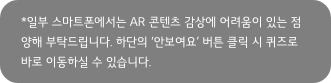
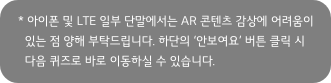
텍스트 수정중

Changed region(s): [[0.0604, 0.1687, 0.9668, 0.3373], [0.0604, 0.4096, 0.9366, 0.5783], [0.0604, 0.6506, 0.6647, 0.8193]]

diff --git a/quiz/my-app/src/components/Q2/Question2_answer.jsx b/quiz/my-app/src/components/Q2/Question2_answer.jsx
@@ -31,7 +31,10 @@ const Question2_answer = (props) => {
                 quizImg={quiz}
                 answer={props.location.state.answerText}
                 nextPageImg={nextPageImg}
-                answerText={'정이품송 맏아들나무는 천연기념물 제 103호인 정이품송의 장자목입니다. 세조가 법주사로 행차할 때 타고 가던 가마가 이 소나무 아래를 지나게 되었는데 처진 가지에 걸리게 되어 세조가 “가마가 가지에 걸린다”라고 말하니, 소나무가 스스로 가지를 위로 들어 올려 왕이 지나가도록 했다고 합니다. 세조는 소나무의 충정을 기리기 위해 정이품(현재 장관급)의 벼슬을 내렸고 이때부터 그 소나무를 ‘정이품송’이라 부르게 되었습니다. '}
+                answerText={'정이품송 맏아들나무는 천연기념물 제 103호인 정이품송의 장자목입니다. ' +
+                '세조가 법주사로 행차할 때 타고 가던 가마가 이 소나무 아래를 지나게 되었는데 처진 가지에 걸리게 되어 세조가 “가마가 가지에 걸린다”라고 말하니, ' +
+                '소나무가 스스로 가지를 위로 들어 올려 왕이 지나가도록 했다고 합니다. 세조는 소나무의 충정을 기리기 위해 정이품(현재 장관급)의 벼슬을 내렸고 ' +
+                '이때부터 그 소나무를 ‘정이품송’이라 부르게 되었습니다. '}
                 url={'/3'}
             />
         </Question2_answerStyled>

diff --git a/quiz/my-app/src/components/Q2/Question2_main.jsx b/quiz/my-app/src/components/Q2/Question2_main.jsx
@@ -18,13 +18,11 @@ const Question1_main = () => {
                 title2={'8도 소나무 단지'}
                 titleImg={titleImg}
                 quizImg={quiz}
-                question={'아래의 물음표에 들어가는 글자를\n' +
-                '유추해보세요. 그리고 \'정이품송 맏아들나무\'\n' +
-                '안내판을 찾은 후, 안내판에 물음표가 들어가 \n' +
-                '단어를 찾아 입력하세요(세글자)'
+                question={'기품있는 8도 소나무 단지를 감상해보세요. 그리고 \'정이품송 맏아들나무\'를 만나게 된다면 안내판을 유심히 읽어보세요. ' +
+                '이번 문제의 정답인 "■◆▲"는 정이품송의 기념비적인 의미를 나타내는 세 자리 글자 또는 숫자를 찾을 수 있습니다.'
                 }
                 map={map}
-                mapText={'야생화공원의 길을 따라 8도 소나무 단지에서 \'정이품송 맏아들나무\'안내판을 찾아보세요!'}
+                mapText={'야생화공원의 길을 따라 8도 소나무 단지에서 \'정이품송 맏아들나무\'안내판을 찾아보세요! \n\'충청북도\'표지석(바닥) 옆에 있습니다'}
                 hintUrl={'/2hint'}
                 url={'/2input'}
             />

diff --git a/quiz/my-app/src/components/Q3/Question3_main.jsx b/quiz/my-app/src/components/Q3/Question3_main.jsx
@@ -18,12 +18,11 @@ const Question3_main = () => {
                 title2={'남산의 야생조류'}
                 titleImg={titleImg}
                 quizImg={quiz}
-                question={'남산에서 롱관찰되는 천연기념물 야생조류는\n' +
-                '황조롱이와 \'____\'입니다. 빈칸에 들어갈 조류의\n' +
-                '이름은 무엇일까요?'}
+                question={'반갑게 지저귀는 새들의 인사를 들으면서 즐겁게 산책중이신가요? 조용히 귀를 기울여보시면, 남산에 사는 다양한 새소리를 들을 수 있습니다.' +
+                '남산에서 관찰되는 천연기념물 야생조류를 황조롱이와 \'____\'입니다. 빈칸에 들어갈 이름은 무엇일까요?'}
                 hint={'[힌트] 위의 안내판을 잘 찾아보세요!'}
                 map={map}
-                mapText={'유아숲체험원과 화장실을 지나 \n\'남산에서 관찰된 야생조류\'안내판을 찾아보세요!'}
+                mapText={'유아숲체험원과 화장실을 지나 \n\'남산에서 관찰된 야생조류\'안내판을 찾아을 수 있습니다.'}
                 ArUrl={true}
                 url={'/3input'}
             />

diff --git a/quiz/my-app/src/components/Q1/Question1_main.jsx b/quiz/my-app/src/components/Q1/Question1_main.jsx
@@ -18,10 +18,9 @@ const Question1_main = () => {
                 title2={'야생화공원'}
                 titleImg={titleImg}
                 quizImg={quiz}
-                question={'야생화공원의 길을 걸으며 주변에\n' +
-                '어떤 야생화가 있는지 둘러보세요.\n' +
-                '그리고 다음 식물의 이름을 찾아보세요'} z
-                hint={'[힌트] 공원의 안의 팻말들을 잘 찾아보세요'}
+                question={'우측 위에 있는 \'위치보기\'를 눌러 지도를 확인하고 야생화공원으로 가세요.' +
+                ' 야생화공원에 잇는 식물들은 아름답지만 이름은 낯설 것입니다. 그 중 아래 팻말을 찾고, 아래 식물의 이름을 찾아주세요.'}
+                hint={'\<과명 | 두릅나무과 송악송> '}
                 map={map}
                 mapText={'육교를 건너 남산공원으로 진입 후, 체육시설과 지압보도를 지나 야생화공원으로 들어가세요!'}
                 url={'/1input'}

diff --git a/quiz/my-app/src/components/Q2/Question2_Input.jsx b/quiz/my-app/src/components/Q2/Question2_Input.jsx
@@ -26,11 +26,9 @@ const Question2_Input = (props) => {
                 history={props.history}
                 urlNum= {'2'}
                 answerText={'103'}
-                questionText={'아래의 물음표에 들어가는 글자를\n' +
-                '유추해보세요. 그리고 \'' +
-                '정이품송 맏아들나무\' \n' +
-                '안내판을 찾은 후, 안내판에 물음표가 들어가는\n' +
-                '단어를 찾아 입력하세요.(세글자) '}
+                questionText={'기품있는 8도 소나무 단지를 감상해보세요. 그리고 \'정이품송 맏아들나무\'를 만나게 된다면 안내판을 유심히 읽어보세요. ' +
+                '이번 문제의 정답인 "■◆▲"는 정이품송의 기념비적인 의미를 나타내는 세 자리 글자 또는 숫자를 찾을 수 있습니다.'
+                }
             />
 
         </Question2_InputStyled>

diff --git a/quiz/my-app/src/components/Q1/Question1_Input.jsx b/quiz/my-app/src/components/Q1/Question1_Input.jsx
@@ -19,18 +19,19 @@ width: 100%;
 const Question1_Input = (props) => {
 
     return (
-        <>
+        <Question1_InputStyled>
             <Question_Input
                 history={props.history}
                 urlNum={'1'}
                 answerText={'송악'}
-                questionText={'야생화 공원에서 다음 식물의 이름을 찾아보세요.'}
+                questionText={'우측 위에 있는 \'위치보기\'를 눌러 지도를 확인하고 야생화공원으로 가세요.' +
+                ' 야생화공원에 잇는 식물들은 아름답지만 이름은 낯설 것입니다. 그 중 아래 팻말을 찾고, 아래 식물의 이름을 찾아주세요.'}
                 titleImg={titleImg}
                 title={props.location.state.title}
                 title2={props.location.state.title2}
             />
 
-        </>
+        </Question1_InputStyled>
     )
 
 

diff --git a/quiz/my-app/src/components/Q3_2/Question3_2_Input.jsx b/quiz/my-app/src/components/Q3_2/Question3_2_Input.jsx
@@ -24,7 +24,8 @@ const Question3_2_Input = (props) => {
                 title2={props.location.state.title2}
                 titleImg={titleImg}
                 // quizImg={quiz}
-                questionText={'AR을 활용하여 다른 멸종위기 동물들은\n' +
+                questionText={'지금은 천연기념물 2종만 남아있지만, 예전에는 남산에 더욱 다양한 새소리를 들을 수 있었다고 합니다. 자연을 아끼고 보호한다면, 우리의 후손들은 더욱 아름다운 남산을 볼 수 ' +
+                'AR을 활용하여 다른 멸종위기 동물들은\n' +
                 '무엇이 있는지 확인해보세요.\n' +
                 '그리고 이 중 멸종위기인 조류를 확인하고\n' +
                 '이 조류는 어디에 서식하는지 맞춰보세요!'}

diff --git a/quiz/my-app/src/components/Q3/Question3_Input.jsx b/quiz/my-app/src/components/Q3/Question3_Input.jsx
@@ -26,9 +26,8 @@ const Question3_Input = (props) => {
                 history={props.history}
                 urlNum={'3'}
                 answerText={'새홀리기'}
-                questionText={'남산에서 관찰되는 천연기념물 야생조류는\n' +
-                '황조롱이와 \'____\'입니다. 빈칸에 들어갈 조류의\n' +
-                '이름은 무엇일까요?'}
+                questionText={'반갑게 지저귀는 새들의 인사를 들으면서 즐겁게 산책중이신가요? 조용히 귀를 기울여보시면, 남산에 사는 다양한 새소리를 들을 수 있습니다.' +
+                '남산에서 관찰되는 천연기념물 야생조류를 황조롱이와 \'____\'입니다. 빈칸에 들어갈 이름은 무엇일까요?'}
             />
 
         </Question3_InputStyled>

diff --git a/quiz/my-app/src/components/Q5/Question5_main.jsx b/quiz/my-app/src/components/Q5/Question5_main.jsx
@@ -20,7 +20,7 @@ const Question5_main = () => {
                 titleImg={titleImg}
                 quizImg={quiz}
                 quizImg2={quiz2}
-                question={'아래의 그림에서 a, b를 유추하고, 남산공원에서 \'단푼이 드는 이유\'라는 안내판을 찾아보세요.\n이 안내판의 a번째 줄, b번째 단어는 무엇일까요?'}
+                question={'아래의 그림에서 a, b를 유추하고, 남산공원에서 \'단풍이 드는 이유\'라는 안내판을 찾아보세요.\n이 안내판의 a번째 줄, b번째 단어는 무엇일까요?'}
                 map={map}
                 mapText={'연못 옆 계단을 내려와 경사길을 따라오세요.\n \'단풍이 드는 이유\'안내판을 찾아보세요!'}
                 hintUrl={'/5hint'}

diff --git a/quiz/my-app/src/components/Q2/Question2_hint.jsx b/quiz/my-app/src/components/Q2/Question2_hint.jsx
@@ -3,7 +3,7 @@ import styled from 'styled-components'
 
 import Question_hint from "../defaultTemplate/Question_hint";
 import titleImg from "../../images/Q2/Title@2x.png";
-import hintImg from '../../images/Q2/Quiz@2x.png'
+import hintImg from '../../images/Q2/hint.png'
 
 
 const Question2_hint = (props) => {
@@ -15,7 +15,7 @@ const Question2_hint = (props) => {
                 title2={props.location.state.title2}
                 titleImg={titleImg}
                 hintImg={hintImg}
-                hintText={'숫자로 생각해볼까요?'}
+                hintText={'숫자로 생각해볼까요?\n영, 일, 이, 삼, ... 십까지 세어보세요.'}
                 url={'/2'}
 
             />

diff --git a/quiz/my-app/src/components/Q5/Question5_Input.jsx b/quiz/my-app/src/components/Q5/Question5_Input.jsx
@@ -25,7 +25,7 @@ const Question5_Input = (props) => {
                 history={props.history}
                 urlNum={'5'}
                 answerText={'떨켜층'}
-                questionText={'아래의 그림에서 a, b를 유추하고, 남산공원에서 \'단푼이 드는 이유\'라는 안내판을 찾아보세요.\n이 안내판의 a번째 줄, b번째 단어는 무엇일까요?'}
+                questionText={'아래의 그림에서 a, b를 유추하고, 남산공원에서 \'단풍이 드는 이유\'라는 안내판을 찾아보세요.\n이 안내판의 a번째 줄, b번째 단어는 무엇일까요?'}
             />
 
         </Question5_InputStyled>

diff --git a/quiz/my-app/src/components/Q2/Question2_wrong.jsx b/quiz/my-app/src/components/Q2/Question2_wrong.jsx
@@ -22,7 +22,7 @@ const Question2_wrong = (props) => {
                 title={props.location.state.title}
                 title2={props.location.state.title2}
                 titleImg={titleImg}
-                wrongText={'정답은 숫자입니다!'}
+                wrongText={'정답은 세 자리 숫자입니다'}
                 url={'/2'}
                 useHint={true}
             />
